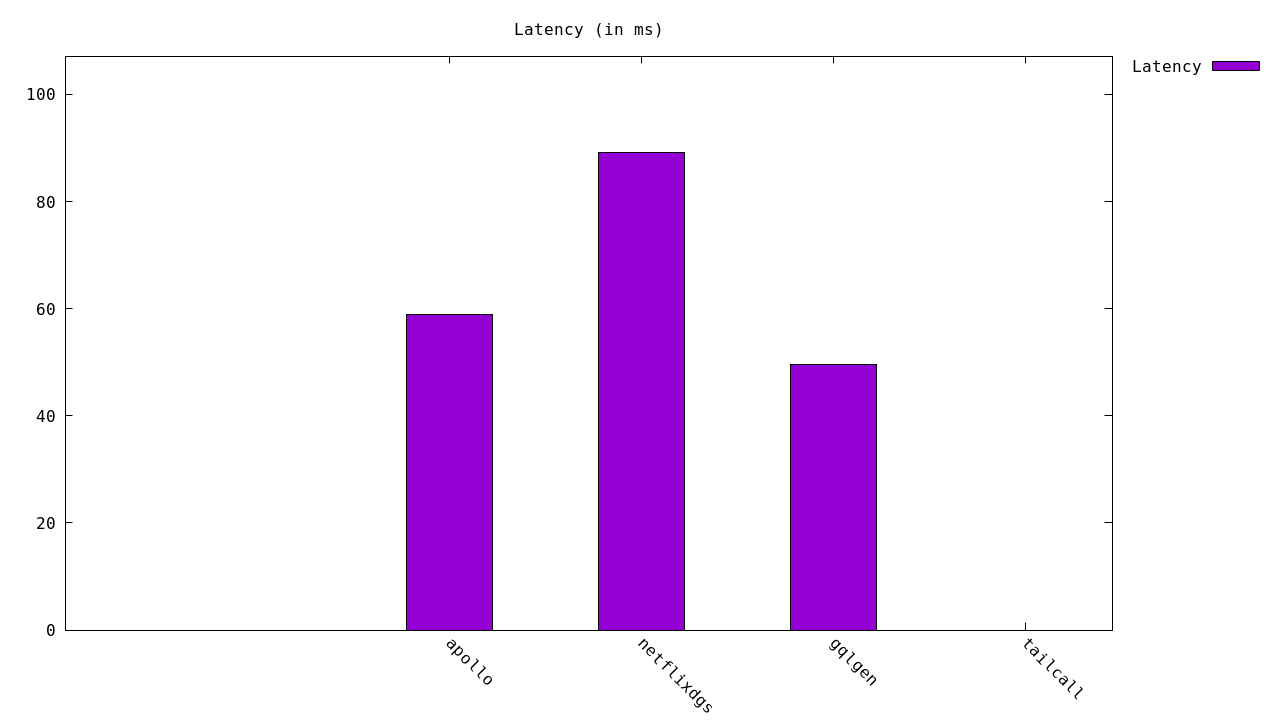
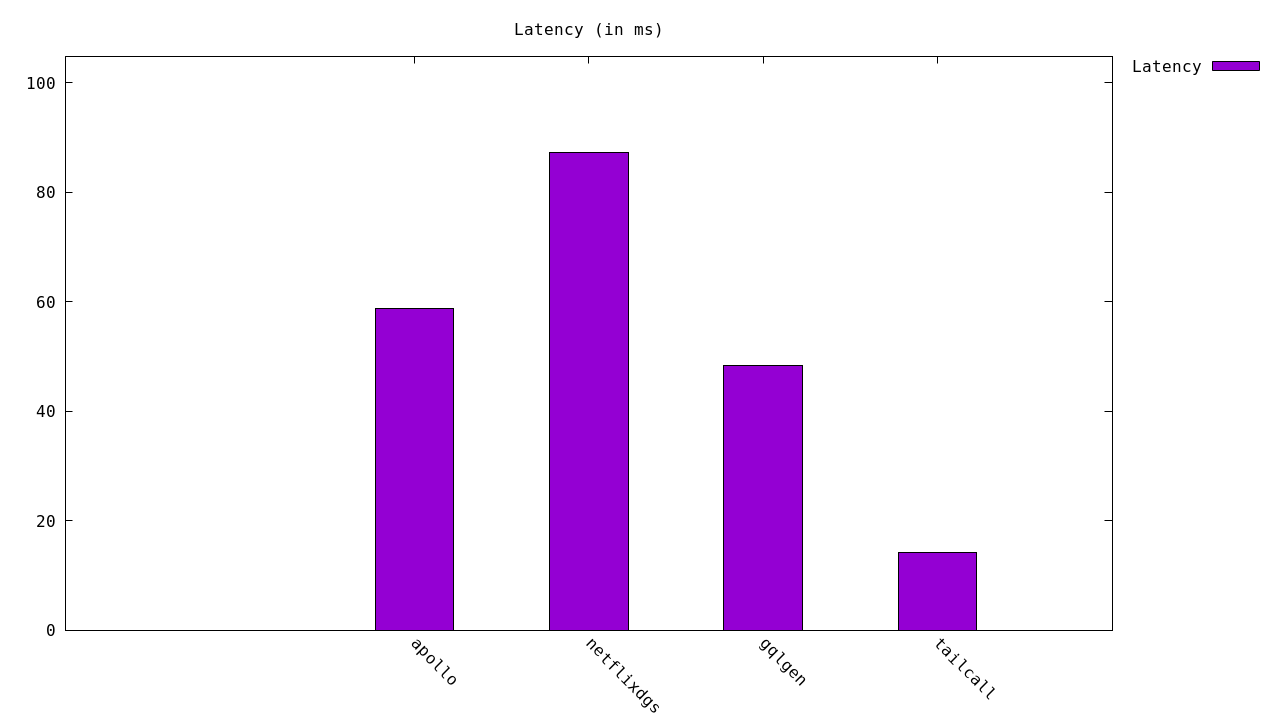
Update performance results in README.md

diff --git a/README.md b/README.md
@@ -45,10 +45,10 @@ Get started with the benchmarks:
 
 | Server | Requests/sec | Latency (ms) |
 |--------:|--------------:|--------------:|
-| [Gqlgen] | `2,091.84` | `49.54` |
-| [Apollo GraphQL] | `1,697.13` | `58.91` |
-| [Netflix DGS] | `1,448.78` | `89.23` |
-| [Tailcall] | `-nan` | `-nan` |
+| [Tailcall] | `7,022.67` | `14.17` |
+| [Gqlgen] | `2,129.13` | `48.44` |
+| [Apollo GraphQL] | `1,701.20` | `58.77` |
+| [Netflix DGS] | `1,462.07` | `87.35` |
 
 <!-- PERFORMANCE_RESULTS_END -->
 
